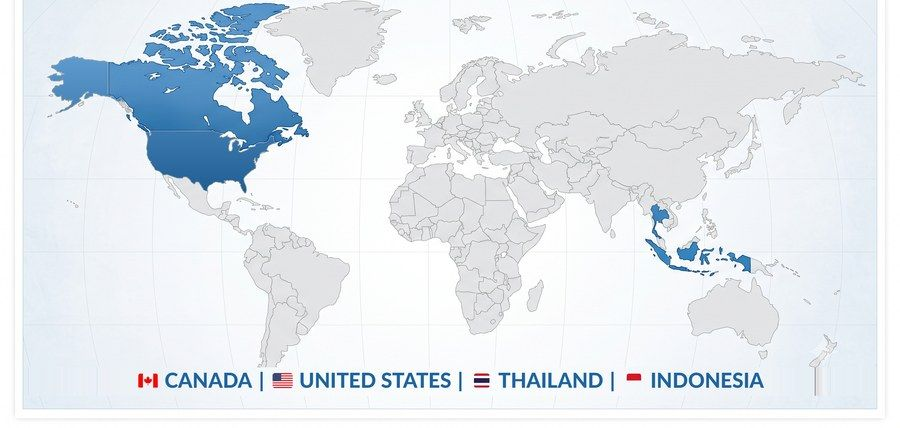
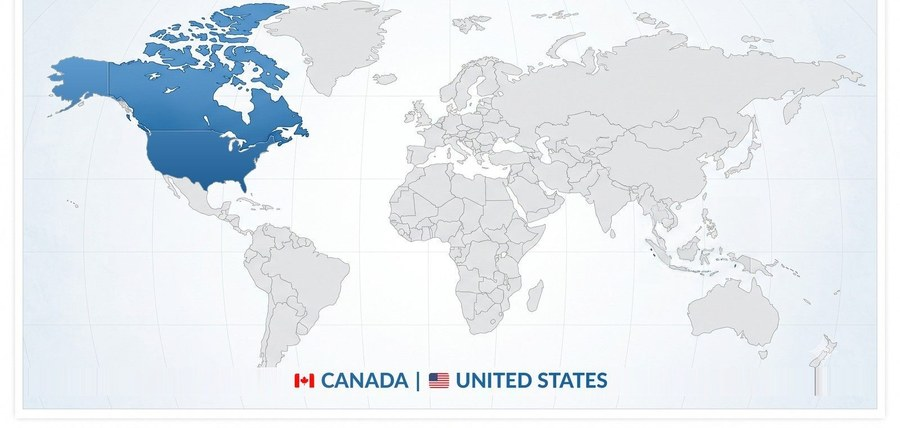
Map: highlight only Canada and the United States
Claude-Session: https://claude.ai/code/session_01MjwusrMyx5pMaoohYRat1t

Changed region(s): [[0.1556, 0.8505, 0.8711, 0.9112], [0.7156, 0.4556, 0.84, 0.6379], [0.2489, 0.1519, 0.28, 0.1822]]

diff --git a/index.html b/index.html
@@ -699,7 +699,7 @@ tailwind.config = {
           <img src="assets/global-presence.jpg"
                srcset="assets/global-presence-900.jpg 900w, assets/global-presence.jpg 1600w"
                sizes="(min-width:1024px) 640px, 92vw"
-               alt="World map with Canada, the United States, Thailand and Indonesia highlighted"
+               alt="World map with Canada and the United States highlighted"
                width="1600" height="761" loading="lazy" decoding="async"
                class="w-full rounded-xl bg-white ring-1 ring-inset ring-white/15 shadow-xl shadow-black/20">
           <figcaption class="mt-4 text-sm text-lightgray leading-relaxed">
